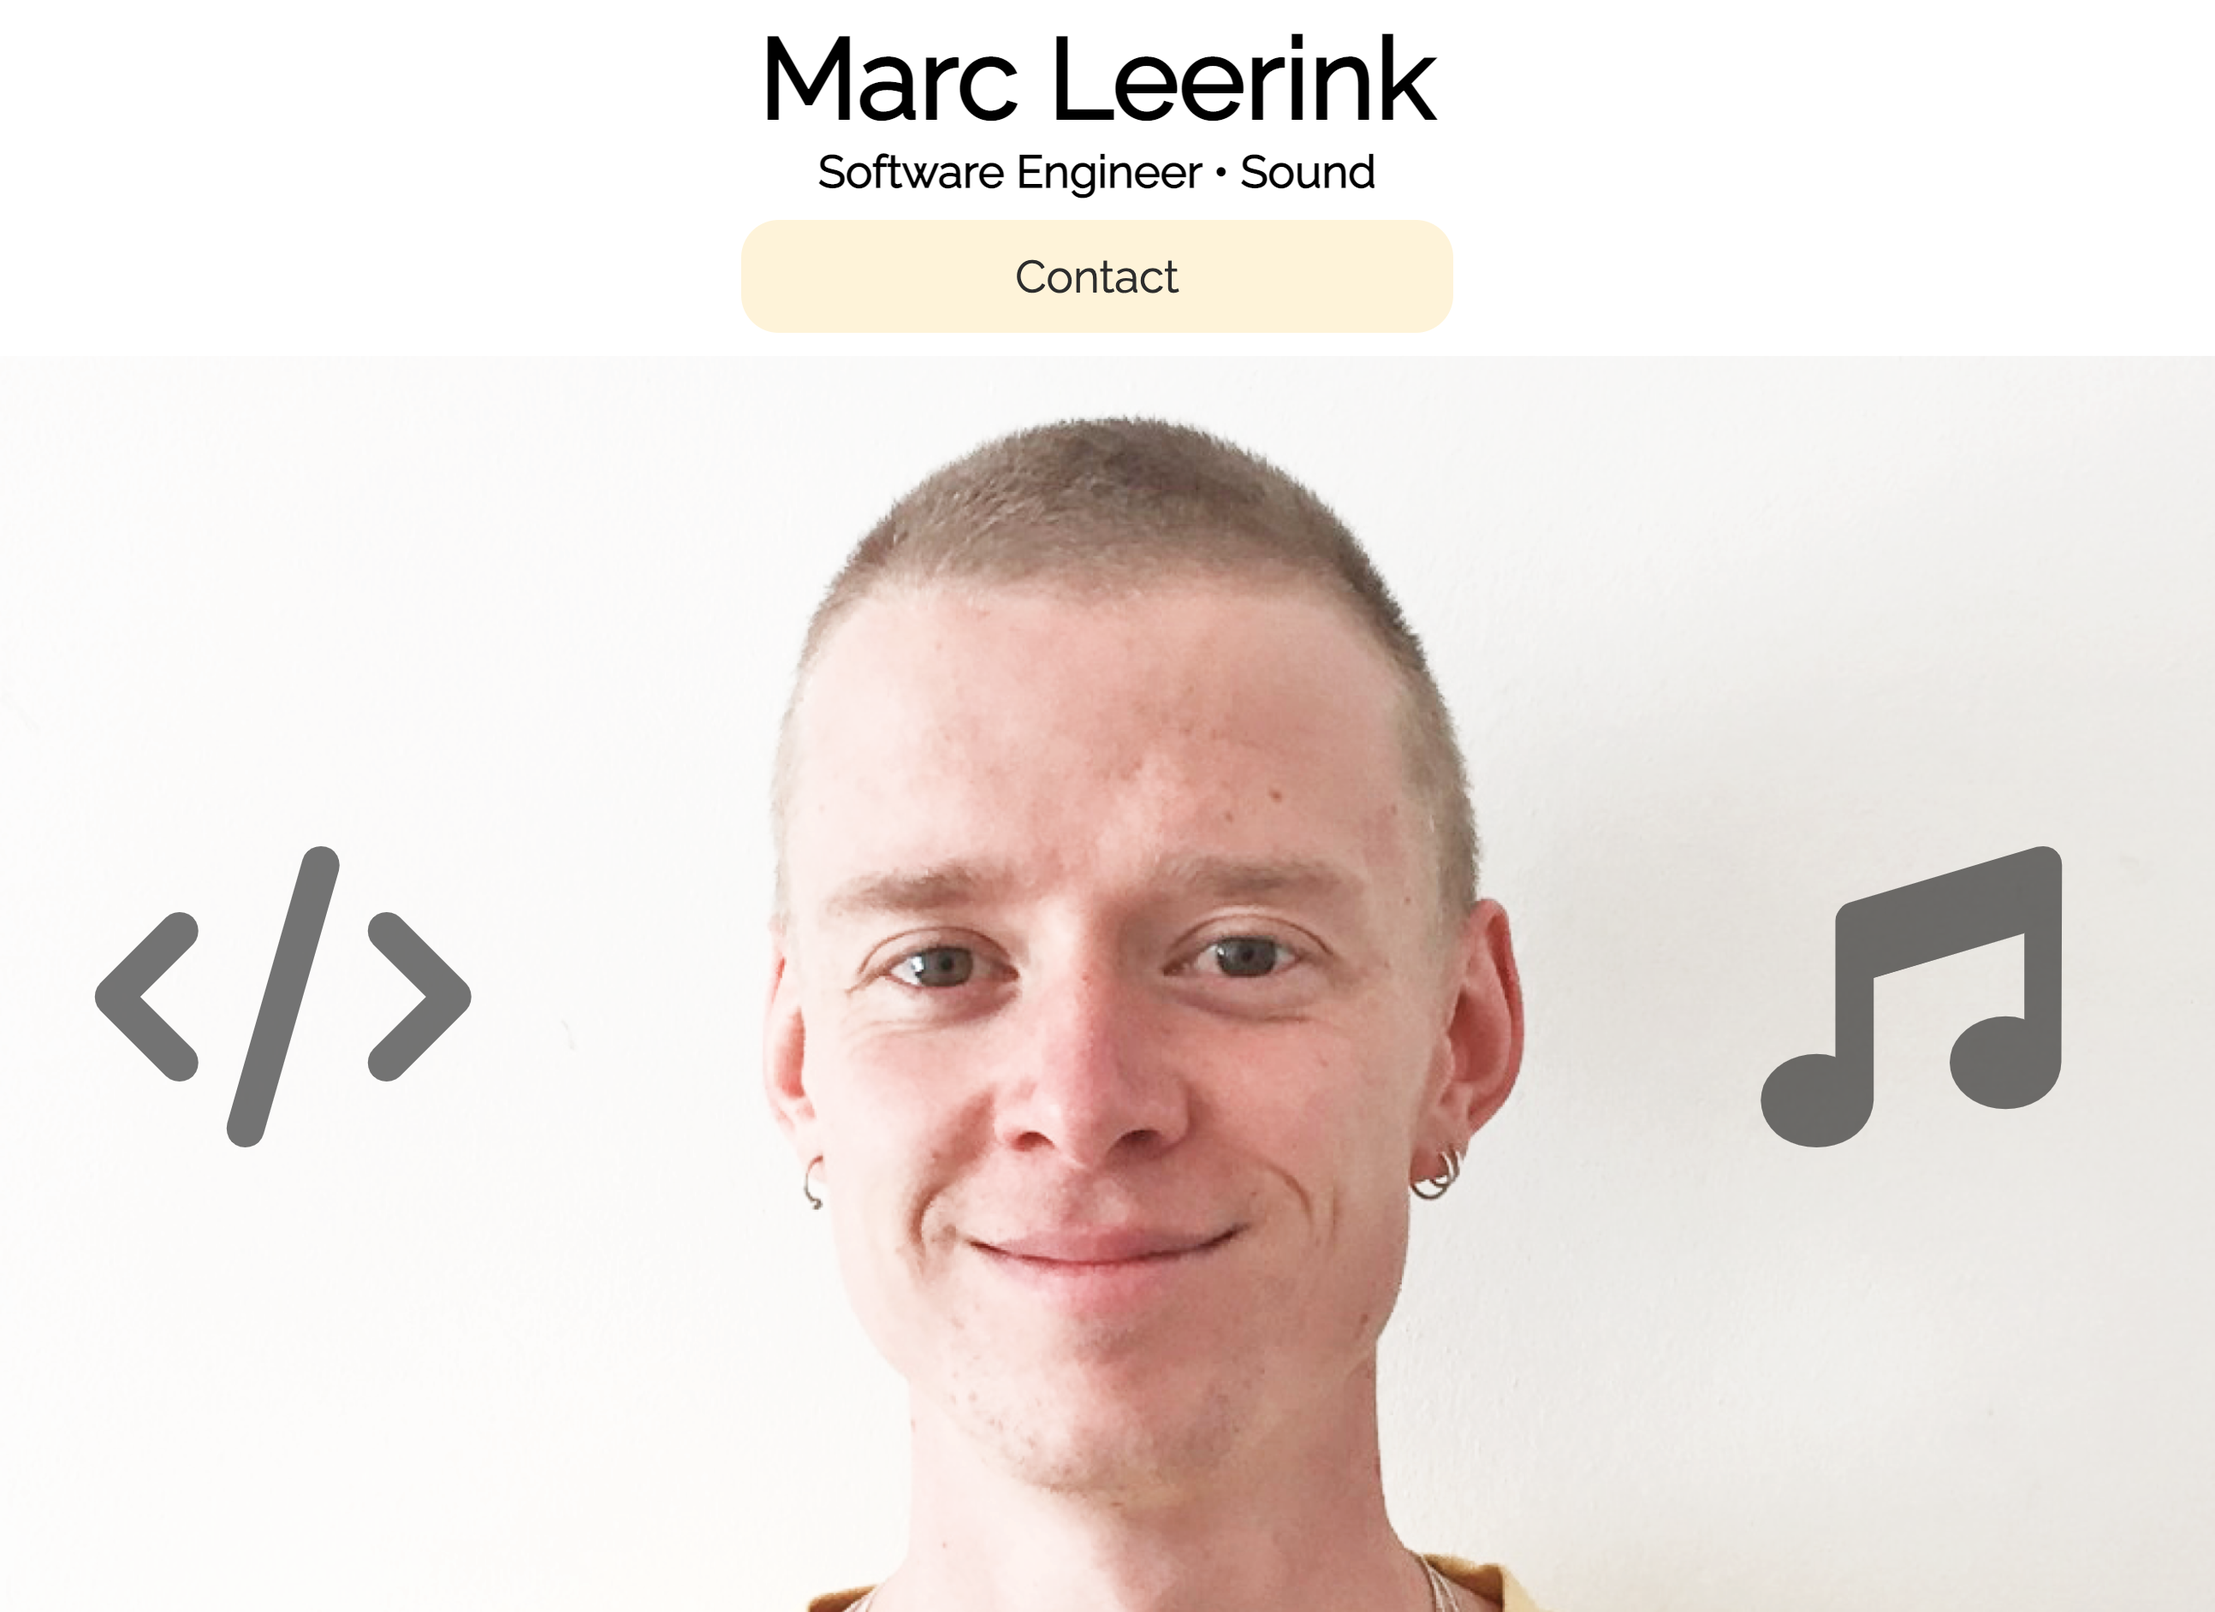
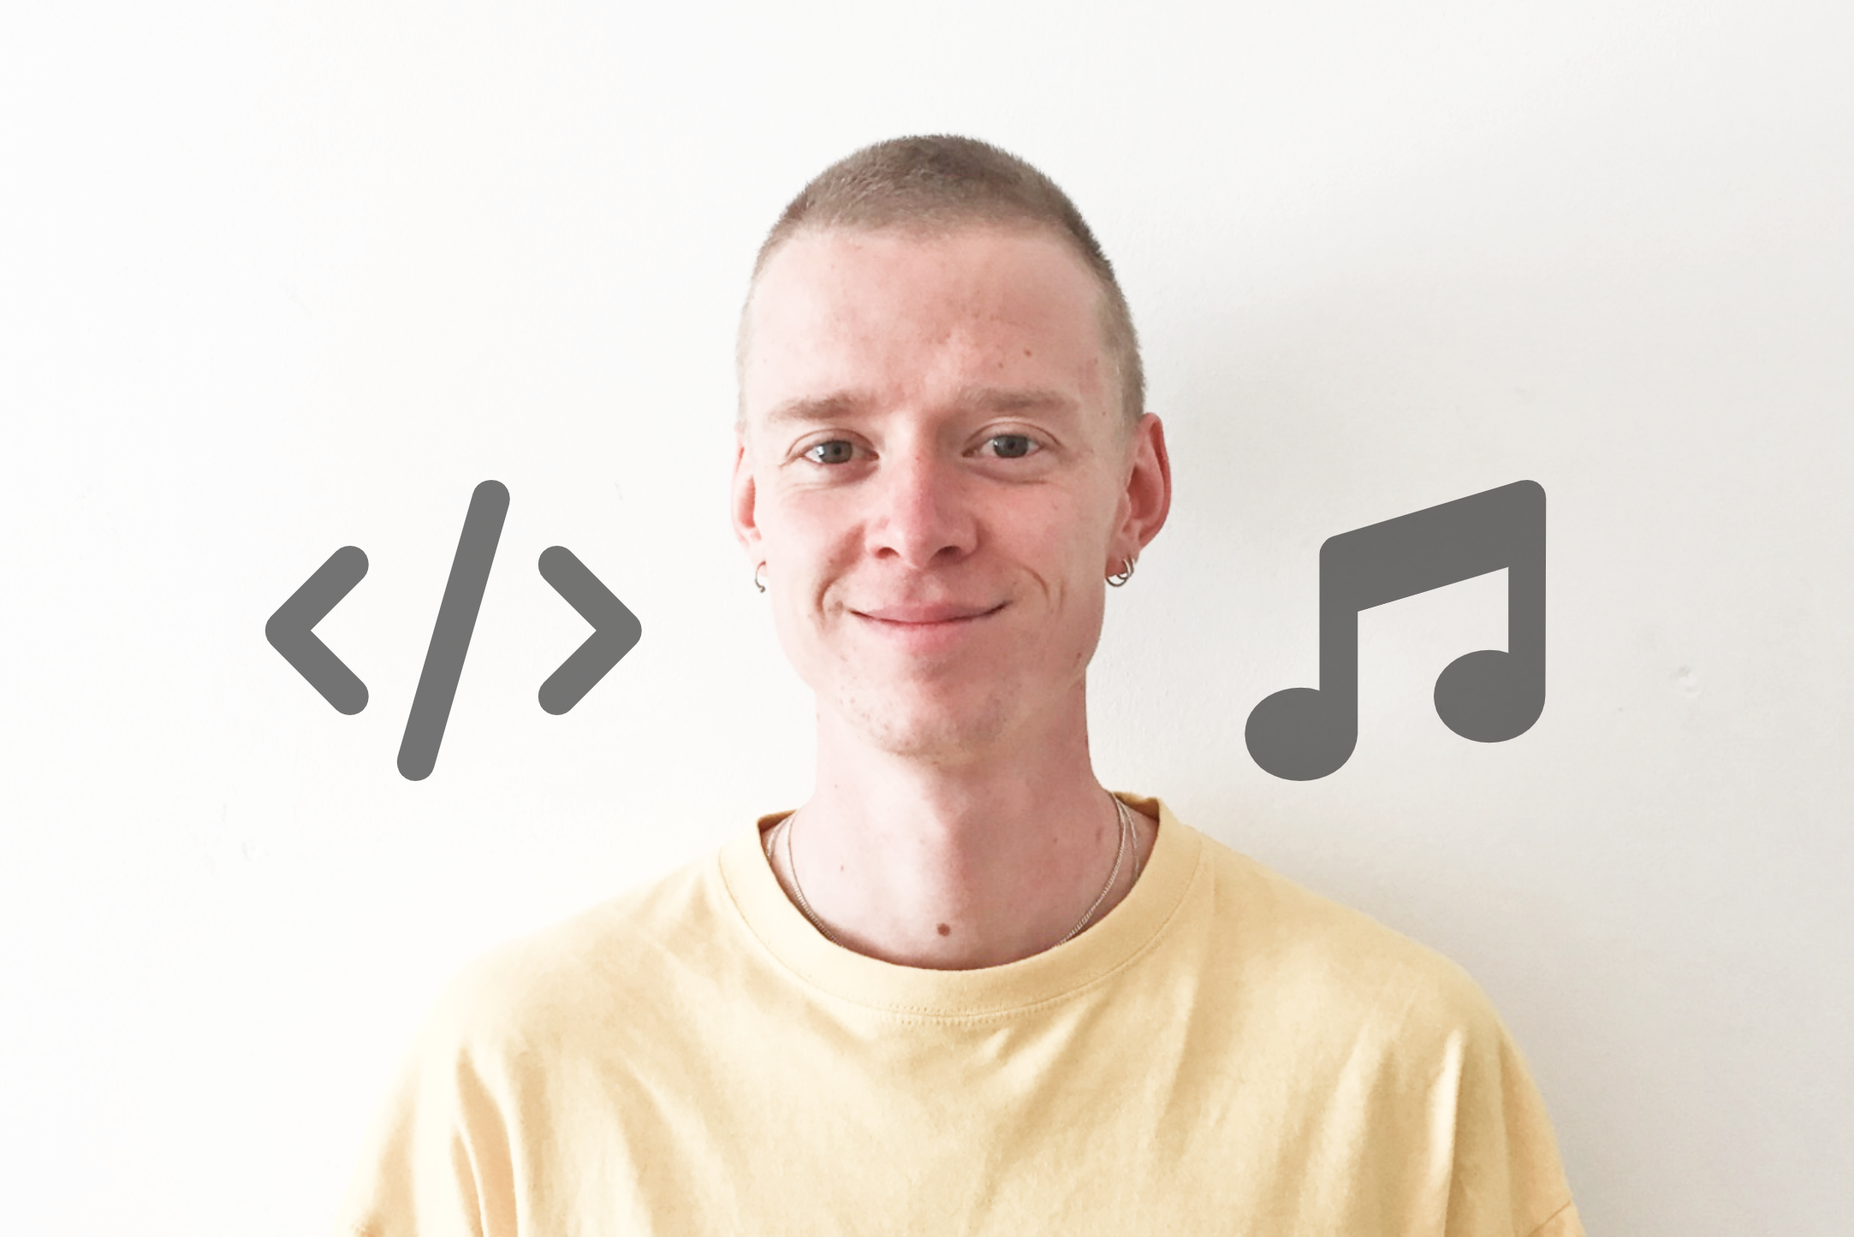
improved projects design and accessibility

diff --git a/app/templates/software_engineer/software_engineer.html b/app/templates/software_engineer/software_engineer.html
@@ -10,11 +10,11 @@
     <a class= "nav_button" href={{url_for('simple_pages.sound_artist')}}>Sound</a>
     <a class= "nav_button" href={{url_for('messages.get_contact')}}>Contact</a>
 </nav>
-<div class="main_background">
+<div tabindex="0" class="main_background">
 <div class="main_background2">
 </div>
 </div>
-    <section class="body">
+    <section tabindex="0" class="body">
         <h2> Hi, I am Marc Leerink</h2>
         <h3> <br>A passionate tech and music lover from the Netherlands, living in Berlin.</h3>
         <p class="text_align_left">
@@ -35,27 +35,29 @@
     </section>
     <section class="projects_container">
         {% for project in project_pagination.items %}
-        <div class ="project_button"> 
+        <div class ="project_contain"> 
             <div class="project_content">
             <a href="/projects/{{ project.slug }}">
                 <h2 class="project_title">{{ project.title }}</h2>
                 <img class="project_image" src='{{ project.image_url }}' alt="project_photo">
                 <p class="text_align_left">{{ project.content }}</p>
             </a>
+                <a tabindex="0" class="project_button" onclick=" window.open('{{ project.link }}','_blank')"><i class="fa-solid fa-arrow-up-right-from-square"></i> View project</a>
+                <a tabindex="0" class="project_button" onclick=" window.open('{{ project.code_link }}','_blank')"><i class="fa-brands fa-github"></i> View on GitHub</a>
             </div>
         </div> 
         {% endfor %}
     </section>
     <section class="links_wrap">
-        <div class="project_button">
+        <div class="project_contain">
             <div class="project_content">
                 <a class="out_button" href={{url_for('software_engineer.project')}}> All Projects</a>
             </div>
         </div>
         <div class="out_links">
             <a class="out_button" href={{url_for('simple_pages.cv')}}>CV</a>
-            <a class="out_button" onclick=" window.open('https://github.com/marcleerink','_blank')"><i class="fa-brands fa-github"></i> </a>
-            <a class="out_button" onclick=" window.open('https://www.linkedin.com/in/marc-leerink-82b83b121/','_blank')" ><i class="fa-brands fa-linkedin"></i></a>
+            <a class="out_button" tabindex="0" onclick=" window.open('https://github.com/marcleerink','_blank')"><i class="fa-brands fa-github"></i> </a>
+            <a class="out_button" tabindex="0" onclick=" window.open('https://www.linkedin.com/in/marc-leerink-82b83b121/','_blank')" ><i class="fa-brands fa-linkedin"></i></a>
         </div>  
         <div class="links">
             <a class= "button2" href={{url_for('software_engineer.project')}}> Projects</a>

diff --git a/app/templates/simple_pages/sound_artist.html b/app/templates/simple_pages/sound_artist.html
@@ -11,10 +11,10 @@
         <a class= "nav_button" href={{url_for('software_engineer.software_engineer')}}>Software Engineer</a>
         <a class= "nav_button" href={{url_for('messages.get_contact')}}>Contact</a>
     </nav>
-<div class="main_background">
+<div tabindex="0" class="main_background">
 </div>
     <section class="body">
-        <button class="out_button" id="dropdown"><i class="fa-solid fa-caret-down"></i></button>
+        <button tabindex="0" class="out_button" id="dropdown"><i class="fa-solid fa-caret-down"></i></button>
 
       <div class ="sc-wrapper" id="sc-wrapper">
       <iframe class="sc-link" width="auto" height="130" scrolling="no" frameborder="no" allow="autoplay" src="https://w.soundcloud.com/player/?url=https%3A//api.soundcloud.com/tracks/1181092066&color=%23ff5500&auto_play=false&hide_related=false&show_comments=true&show_user=true&show_reposts=false&show_teaser=true"></iframe><div style="font-size: 10px; color: #cccccc;line-break: anywhere;word-break: normal;overflow: hidden;white-space: nowrap;text-overflow: ellipsis; font-family: Interstate,Lucida Grande,Lucida Sans Unicode,Lucida Sans,Garuda,Verdana,Tahoma,sans-serif;font-weight: 100;"><a href="https://soundcloud.com/mirrorzone" title="MIRROR ZONE" target="_blank" style="color: #cccccc; text-decoration: none;"></a> · <a href="https://soundcloud.com/mirrorzone/eos-radio-001-spekki-webu-invites-altijira-december-2021" title="EOS Radio [001] Spekki Webu Invites Altjira // December 2021" target="_blank" style="color: #cccccc; text-decoration: none;"></a></div>
@@ -24,9 +24,9 @@
     </section>
     <section class="links_wrap">
       <div class="out_links">
-        <a class="out_button" onclick=" window.open('https://www.instagram.com/altjiramara','_blank')"><i class="fab fa-instagram"></i></a>
-        <a class="out_button" onclick=" window.open('https://soundcloud.com/altjiramara','_blank')"><i class="fa-brands fa-soundcloud"></i></a>
-        <a class="out_button" onclick=" window.open('https://bandcamp.com/maleerink','_blank')"><i class="fa-brands fa-bandcamp"></i></a>
+        <a tabindex="0"class="out_button" onclick=" window.open('https://www.instagram.com/altjiramara','_blank')"><i class="fab fa-instagram"></i></a>
+        <a tabindex="0"class="out_button" onclick=" window.open('https://soundcloud.com/altjiramara','_blank')"><i class="fa-brands fa-soundcloud"></i></a>
+        <a tabindex="0"class="out_button" onclick=" window.open('https://bandcamp.com/maleerink','_blank')"><i class="fa-brands fa-bandcamp"></i></a>
       </div>
       <div class="links">
         <a class= "button2" href={{url_for('messages.get_contact')}}>Contact</a>

diff --git a/app/templates/simple_pages/index.html b/app/templates/simple_pages/index.html
@@ -17,17 +17,17 @@
             <h2 class= "text_button" href={{ url_for('software_engineer.software_engineer') }}>Software Engineer</h2>
             <div class="out_links">
                 <a class="out_button" href={{url_for('simple_pages.cv')}}>CV</a>
-                <a class="out_button" onclick=" window.open('https://github.com/marcleerink','_blank')"><i class="fa-brands fa-github"></i> </a>
-                <a class="out_button" onclick=" window.open('https://www.linkedin.com/in/marc-leerink-82b83b121/','_blank')" ><i class="fa-brands fa-linkedin"></i></a>
+                <a tabindex="0" class="out_button" onclick=" window.open('https://github.com/marcleerink','_blank')"><i class="fa-brands fa-github"></i> </a>
+                <a tabindex="0" class="out_button" onclick=" window.open('https://www.linkedin.com/in/marc-leerink-82b83b121/','_blank')" ><i class="fa-brands fa-linkedin"></i></a>
             </div>  
         </figure>
         <figure class='background2'>
             <a class= "button" href={{ url_for('simple_pages.sound_artist') }}><i class="fa-solid fa-music"></i></a>
             <h2 class= "text_button" href={{ url_for('simple_pages.sound_artist') }}>Sound</h2>
             <div class="links2">
-                <a onclick=" window.open('https://www.instagram.com/altjiramara','_blank')" class="out_button"><i class="fab fa-instagram"></i></a>
-                <a onclick=" window.open('https://soundcloud.com/altjiramara','_blank')" class="out_button"><i class="fa-brands fa-soundcloud"></i></a>
-                <a onclick=" window.open('https://bandcamp.com/maleerink','_blank')" class="out_button"><i class="fa-brands fa-bandcamp"></i></a>
+                <a tabindex="0" onclick=" window.open('https://www.instagram.com/altjiramara','_blank')" class="out_button"><i class="fab fa-instagram"></i></a>
+                <a tabindex="0" onclick=" window.open('https://soundcloud.com/altjiramara','_blank')" class="out_button"><i class="fa-brands fa-soundcloud"></i></a>
+                <a tabindex="0" onclick=" window.open('https://bandcamp.com/maleerink','_blank')" class="out_button"><i class="fa-brands fa-bandcamp"></i></a>
             </div>
         </figure>
     </div>

diff --git a/app/templates/software_engineer/projects.html b/app/templates/software_engineer/projects.html
@@ -14,17 +14,19 @@
 <section class="projects_container">
 {% for project in project_pagination.items %}
     {% if project.priority == 1 %}
-    <div class ="project_button project_highlight"> 
+    <div class ="project_contain project_highlight"> 
         <div class="project_content">
-            <a href="/projects/{{ project.slug }}">
             <h2 class="project_title">{{ project.title }}</h2>
-            <img class="project_image" src='{{ project.image_url }}' alt="project_photo">
-            <p class="text_align_left">{{ project.content }}</p>
+            <a tabindex="0" href="/projects/{{ project.slug }}">
+                <img class="project_image" src='{{ project.image_url }}' alt="project_photo">
             </a>
+            <p class="text_align_left">{{ project.content }}</p>
+            <a tabindex="0" class="project_button" onclick=" window.open('{{ project.link }}','_blank')"><i class="fa-solid fa-arrow-up-right-from-square"></i> View project</a>
+            <a tabindex="0" class="project_button" onclick=" window.open('{{ project.code_link }}','_blank')"><i class="fa-brands fa-github"></i> View on GitHub</a>
         </div>
     </div> 
     {% else %}
-    <div class ="project_button"> 
+    <div class ="project_contain"> 
         <div class="project_content">
         <a href="/projects/{{ project.slug }}">
             <h2 class="project_title">{{ project.title }}</h2>

diff --git a/app/static/css/projects.css b/app/static/css/projects.css
@@ -4,12 +4,13 @@
     justify-items: center;
     flex-flow: row wrap;
     align-items: center;
+    justify-tracks: center;
     background: rgb(255, 243, 210);
     padding: 16px;
     margin: 16px;
 
 }
-.project_button {
+.project_contain {
     flex-basis:100%;
     justify-self: center;
     margin-top: 2vh;
@@ -17,27 +18,39 @@
     padding:12px;
     overflow:hidden;
 }
-    .project_button:hover {
-        transform: scale(1.02);
-        transition: all 700ms ease;
-}
+
 .project_title {
-    margin-top:16px;
+    margin:16px;
 }
 .project_content {
     display: flex;
     flex-flow: column nowrap;
-    align-items: center;
-    align-content:center;
+    align-content: center;
+   
+   
 }   
 
 .project_image {
     align-self: center;
+    justify-self: center;
     width:50%;
+}
+    .project_image:hover {
+        transform: scale(1.02);
+        transition: all 700ms ease;
+        cursor:pointer;
+    }
+.project_button {
+    cursor:pointer;
+    margin:6px;
+    font-size: min(4vw, 16px);
+    color: black;
+    font-weight: normal;
+    text-align: center;
 }
 
 @media (min-width: 700px) {
-    .project_button {
+    .project_contain {
         flex-basis: 45%
     }
 @media (min-width: 1100px) {

diff --git a/app/templates/software_engineer/show.html b/app/templates/software_engineer/show.html
@@ -10,11 +10,14 @@
     <a class= "nav_button" href={{url_for('software_engineer.project')}}>All projects</a>
 </nav>
 <section class="projects_container">
-    <div class="project_content">
-        <img class="project_image" src='{{ projects.image_url }}' alt="project_photo">
-        <h2 class="project_title"> {{ projects.title }} </h2>
-        <p>{{ projects.content }}</p>
-        <a class="out_button" onclick=" window.open('{{ projects.code_link }}','_blank')"><i class="fa-brands fa-github"></i> </a>
+    <div class ="project_contain"> 
+        <div class="project_content">
+            <img class="project_image" src='{{ projects.image_url }}' alt="project_photo">
+            <h2 tabindex="0" class="project_title"> {{ projects.title }} </h2>
+            <p> {{ projects.content }}</p>
+            <a tabindex="0" class="project_button" onclick=" window.open('{{ projects.link }}','_blank')"><i class="fa-solid fa-arrow-up-right-from-square"></i> View project</a>
+            <a tabindex="0" class="project_button" onclick=" window.open('{{ projects.code_link }}','_blank')"><i class="fa-brands fa-github"></i> View on GitHub</a>
+        </div>
     </div>
 </section>
 <div class="links">

diff --git a/app/static/css/software_engineer.css b/app/static/css/software_engineer.css
@@ -1,6 +1,6 @@
 
 .main_background {
-    background-image: url('../images/cvphoto-edit.png');
+    background-image: url('../images/cvphoto.png');
     background-position: 50% 20%;
     background-repeat: no-repeat;
     background-size: cover;
@@ -19,7 +19,19 @@
     display:none;
 }
 .project_button {
+    cursor:pointer;
+    margin:6px;
+    font-size: min(4vw, 16px);
+    color: black;
+    font-weight: normal;
+    text-align: center;
+}
+
+.project_contain{
     display:none;
+}
+.project_title {
+    margin:16px;
 }
 .out_links {
     display: flex; 
@@ -79,14 +91,14 @@
 
 
     }
-    .project_button {
+    .project_contain {
         display:flex;
         justify-content: center;
         flex-basis:33%;
         justify-self: center;
         margin: 0px;
     }
-        .project_button:hover {
+        .project_contain:hover {
             transform: scale(1.02);
             transition: all 700ms ease;
         }

diff --git a/app/templates/base.html b/app/templates/base.html
@@ -9,6 +9,10 @@
         <meta name="viewport" content="width=device-width, initial-scale=1.0">
         <link rel="stylesheet" href="../static/css/main.css">
         <link rel="stylesheet" href="https://cdnjs.cloudflare.com/ajax/libs/font-awesome/6.0.0/css/all.min.css">
+        <link rel="apple-touch-icon" sizes="180x180" href="../static/favicon_io/apple-touch-icon.png">
+        <link rel="icon" type="image/png" sizes="32x32" href="../static/favicon_io/favicon-32x32.png">
+        <link rel="icon" type="image/png" sizes="16x16" href="../static/favicon_io/favicon-16x16.png">
+        <link rel="manifest" href="../static/favicon_io/site.webmanifest">
         {% block stylesheet %}{% endblock %}
     {% endblock %}    
   </head>

diff --git a/app/static/css/main.css b/app/static/css/main.css
@@ -75,6 +75,7 @@ button {
 .text_align_left {
     text-align: justify;
     align-self: center;
+    justify-self: center;
 }
 .header {
     display: flex;
@@ -160,7 +161,7 @@ button {
     opacity: 0.8;
     cursor: pointer;
 }
-    .button2:hover, .button2:active {
+    .button2:hover, .button2:active, .background2:focus {
         transform: scale(1.05);
         opacity: 1;
         transition: all 500ms ease;
@@ -227,7 +228,7 @@ button {
         
     }
 
-    .background1:hover .out_links{
+    .background1:hover .out_links {
         display: flex;
         flex-flow: row, nowrap;
         justify-content: center;

diff --git a/app/templates/messages/profile.html b/app/templates/messages/profile.html
@@ -14,7 +14,7 @@
 </nav>
 
 <section class="body">
-    <div class="form">
+    <div        tabindex="0" class="form">
         <ul>
             <h2> Hello {{ name }} </h2><br>
             <li> Email Address: {{ email }}</li><br>

diff --git a/migrations/versions/188ba360b665_.py b/migrations/versions/188ba360b665_.py
@@ -1,0 +1,39 @@
+"""empty message
+
+Revision ID: 188ba360b665
+Revises: 826af2bab0b1
+Create Date: 2022-04-15 16:24:44.931070
+
+"""
+from alembic import op
+import sqlalchemy as sa
+
+
+# revision identifiers, used by Alembic.
+revision = '188ba360b665'
+down_revision = '826af2bab0b1'
+branch_labels = None
+depends_on = None
+
+
+def upgrade():
+    # ### commands auto generated by Alembic - please adjust! ###
+    op.create_table('projects',
+    sa.Column('id', sa.Integer(), nullable=False),
+    sa.Column('slug', sa.String(length=80), nullable=True),
+    sa.Column('title', sa.String(length=80), nullable=True),
+    sa.Column('content', sa.String(length=10000), nullable=True),
+    sa.Column('link', sa.String(length=260), nullable=True),
+    sa.Column('code_link', sa.String(length=260), nullable=True),
+    sa.Column('priority', sa.Integer(), nullable=True),
+    sa.Column('image_url', sa.String(length=260), nullable=True),
+    sa.PrimaryKeyConstraint('id'),
+    sa.UniqueConstraint('slug')
+    )
+    # ### end Alembic commands ###
+
+
+def downgrade():
+    # ### commands auto generated by Alembic - please adjust! ###
+    op.drop_table('projects')
+    # ### end Alembic commands ###

diff --git a/app/api/services/serialize_messages.py b/app/api/services/serialize_messages.py
@@ -7,7 +7,7 @@ def serialize_users(users):
             'name':user.name,
             'email': user.email,
             'password': user.password,
-            'messages': serialize_messages(user.messages),
+            'messages_sent': serialize_messages(user.messages_sent),
         })
 
     return users_list
@@ -20,6 +20,7 @@ def serialize_messages(messages):
             'id': message.id,
             'subject': message.subject,
             'message': message.message,
+            'timestamp': message.timestamp,
         })
     
     return messages_list
